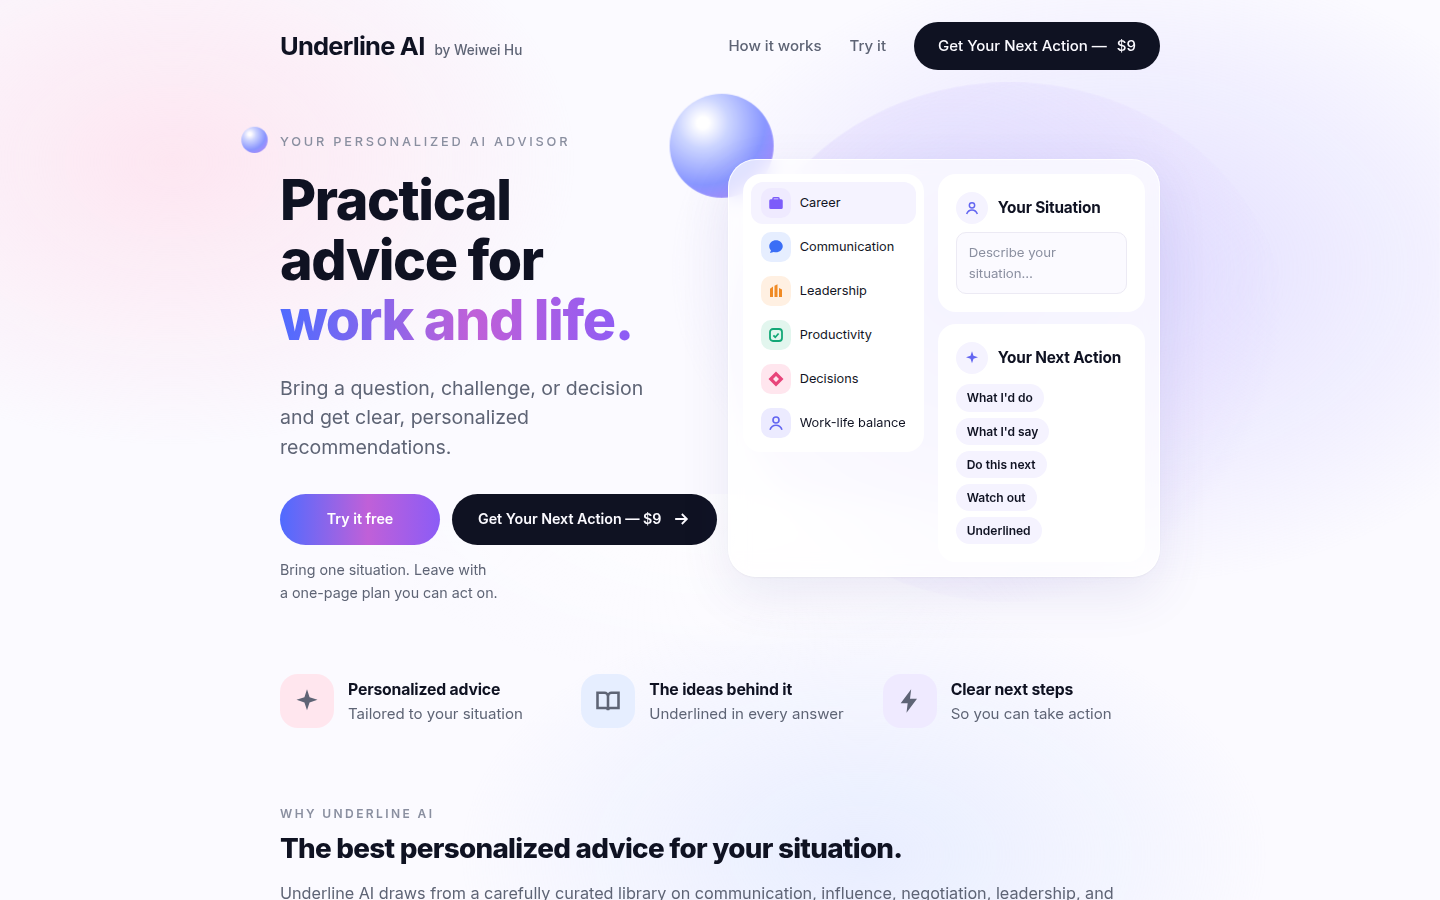
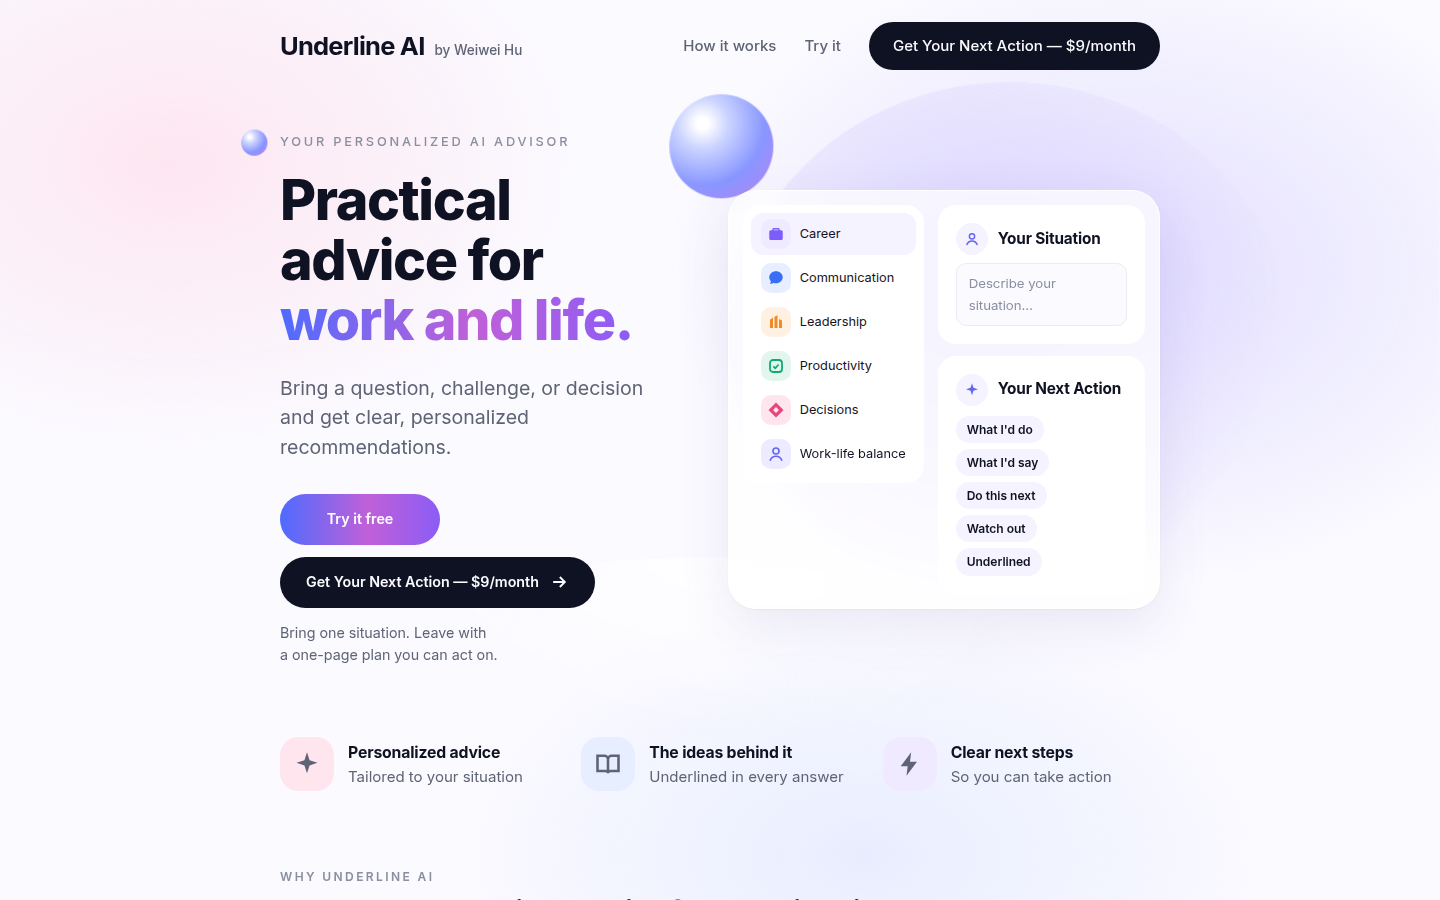
Show the price as $9/month
Claude-Session: https://claude.ai/code/session_01N7N6w9NyR9iyFeuC71Pzud

diff --git a/index.html b/index.html
@@ -278,11 +278,11 @@ html{overflow-x:hidden}
 .ctasub{margin:14px 0 0;font-size:.95rem;color:var(--soft);text-wrap:balance}
 .short{display:none}
 nav .btn.dark{white-space:nowrap}
-@media (max-width:380px){.logo .by{display:none}}
+@media (max-width:440px){.logo .by{display:none}}
 @media (max-width:600px){.long{display:none}.short{display:inline}}
 .closing .ctasub{margin:0 0 22px}
 @media (min-width:521px){.closing .ctas .btn.big{width:auto!important;padding-left:28px!important;padding-right:28px!important}}
-.hero .ctas{flex-wrap:nowrap;gap:12px}
+.hero .ctas{flex-wrap:wrap;gap:12px}
 @media (max-width:520px){.hero .ctas{flex-direction:column}.hero .ctas .btn.big{width:100%!important;flex:0 0 auto}}
 </style>
 
@@ -292,7 +292,7 @@ nav .btn.dark{white-space:nowrap}
     <div class="links">
       <a href="#how">How it works</a>
       <a href="#try">Try it</a>
-      <a class="btn dark" href="https://buy.stripe.com/cNi14nfzP6RKfkX9F2eQM00" target="_blank" rel="noopener"><span class="long">Get Your Next Action &mdash; </span><span class="short">Get yours &mdash; </span>$9</a>
+      <a class="btn dark" href="https://buy.stripe.com/cNi14nfzP6RKfkX9F2eQM00" target="_blank" rel="noopener"><span class="long">Get Your Next Action &mdash; $9/month</span><span class="short">Get yours &mdash; $9/mo</span></a>
     </div>
   </nav>
 
@@ -305,7 +305,7 @@ nav .btn.dark{white-space:nowrap}
       <p class="lead">Bring a question, challenge, or decision and get clear, personalized recommendations.</p>
       <div class="ctas">
         <a class="btn big trybtn" href="#try">Try it free</a>
-        <a class="btn big dark paybtn" href="https://buy.stripe.com/cNi14nfzP6RKfkX9F2eQM00" target="_blank" rel="noopener">Get Your Next Action &mdash; $9 <svg viewBox="0 0 24 24" width="20" height="20" fill="none" stroke="currentColor" stroke-width="2.2" aria-hidden="true"><path d="M5 12h14M13 6l6 6-6 6"/></svg></a>
+        <a class="btn big dark paybtn" href="https://buy.stripe.com/cNi14nfzP6RKfkX9F2eQM00" target="_blank" rel="noopener">Get Your Next Action &mdash; $9/month <svg viewBox="0 0 24 24" width="20" height="20" fill="none" stroke="currentColor" stroke-width="2.2" aria-hidden="true"><path d="M5 12h14M13 6l6 6-6 6"/></svg></a>
       </div>
       <p class="ctasub">Bring one situation. Leave with a one-page plan you can act on.</p>
     </div>
@@ -364,7 +364,7 @@ nav .btn.dark{white-space:nowrap}
           <label class="fld"><span>What do you want to happen?</span><input id="tGoal" type="text" placeholder="Your goal"></label>
           <label class="fld"><span>Anything else that matters? <small>(optional)</small></span><textarea id="tCtx" rows="2" placeholder="People, deadlines, what you've tried"></textarea></label>
           <button class="btn big dark trygo" type="submit">Try Your Next Action</button>
-          <p class="trynote" id="tryNote">Samples are free. <a href="https://claude.ai/artifact/DcJaxNqgEn5uVotUo1J2zq" target="_blank" rel="noopener">Try your own situation once, free</a>, then $9 each.</p>
+          <p class="trynote" id="tryNote">Samples are free. <a href="https://claude.ai/artifact/DcJaxNqgEn5uVotUo1J2zq" target="_blank" rel="noopener">Try your own situation once, free</a>, then $9 a month.</p>
         </form>
       </div>
       <div class="panel full" id="tryOut" aria-live="polite" hidden></div>
@@ -375,7 +375,7 @@ nav .btn.dark{white-space:nowrap}
     <div class="orb" style="width:90px;height:90px;right:-20px;top:-20px" aria-hidden="true"></div>
     <h2>Know your <span class="grad">next best action.</span></h2>
     <p class="ctasub">Bring one situation. Leave with a one-page plan you can act on.</p>
-    <div class="ctas"><a class="btn big dark" href="https://buy.stripe.com/cNi14nfzP6RKfkX9F2eQM00" target="_blank" rel="noopener">Get Your Next Action &mdash; $9 <svg viewBox="0 0 24 24" width="20" height="20" fill="none" stroke="currentColor" stroke-width="2.2" aria-hidden="true"><path d="M5 12h14M13 6l6 6-6 6"/></svg></a></div>
+    <div class="ctas"><a class="btn big dark" href="https://buy.stripe.com/cNi14nfzP6RKfkX9F2eQM00" target="_blank" rel="noopener">Get Your Next Action &mdash; $9/month <svg viewBox="0 0 24 24" width="20" height="20" fill="none" stroke="currentColor" stroke-width="2.2" aria-hidden="true"><path d="M5 12h14M13 6l6 6-6 6"/></svg></a></div>
   </section>
 
   <footer>
@@ -392,9 +392,9 @@ nav .btn.dark{white-space:nowrap}
     <button class="gclose" type="button" aria-label="Close">&times;</button>
     <div class="glock" aria-hidden="true"><svg viewBox="0 0 24 24" width="26" height="26" fill="none" stroke="currentColor" stroke-width="2.2" stroke-linecap="round" stroke-linejoin="round"><rect x="5" y="11" width="14" height="10" rx="2"/><path d="M8 11V7a4 4 0 0 1 8 0v4"/></svg></div>
     <h3 id="gateT">Try your own situation free</h3>
-    <p>Get one free Next Action for your situation: what I'd do, what I'd say, what to do next, what to watch out for and the ideas behind it. After that, each one is $9.</p>
+    <p>Get one free Next Action for your situation: what I'd do, what I'd say, what to do next, what to watch out for and the ideas behind it. After that, it&rsquo;s $9 a month.</p>
     <a class="btn big trybtn" href="https://claude.ai/artifact/DcJaxNqgEn5uVotUo1J2zq" target="_blank" rel="noopener">Get one free Next Action</a>
-    <a class="gpay" href="https://buy.stripe.com/cNi14nfzP6RKfkX9F2eQM00" target="_blank" rel="noopener">Or get Your Next Action &mdash; $9</a>
+    <a class="gpay" href="https://buy.stripe.com/cNi14nfzP6RKfkX9F2eQM00" target="_blank" rel="noopener">Or get Your Next Action &mdash; $9/month</a>
     <button class="glater" type="button">Maybe later</button>
   </div>
 </dialog>

diff --git a/README.md b/README.md
@@ -38,7 +38,7 @@ Underline AI is your personal advisor. Bring a question, a challenge, or a decis
 
 - **Free samples:** [try a sample on the page](https://wei-wei-hu.github.io/underline-ai/#try) to see a full answer.
 - **Free trial:** get one Next Action for your own situation, free.
-- **$9:** [get Your Next Action](https://buy.stripe.com/cNi14nfzP6RKfkX9F2eQM00) for your own situation. Bring one situation. Leave with a one-page plan you can act on.
+- **$9 a month:** [get Your Next Action](https://buy.stripe.com/cNi14nfzP6RKfkX9F2eQM00) for your own situations. Bring one situation. Leave with a one-page plan you can act on.
 
 ## What's in this repo
 
